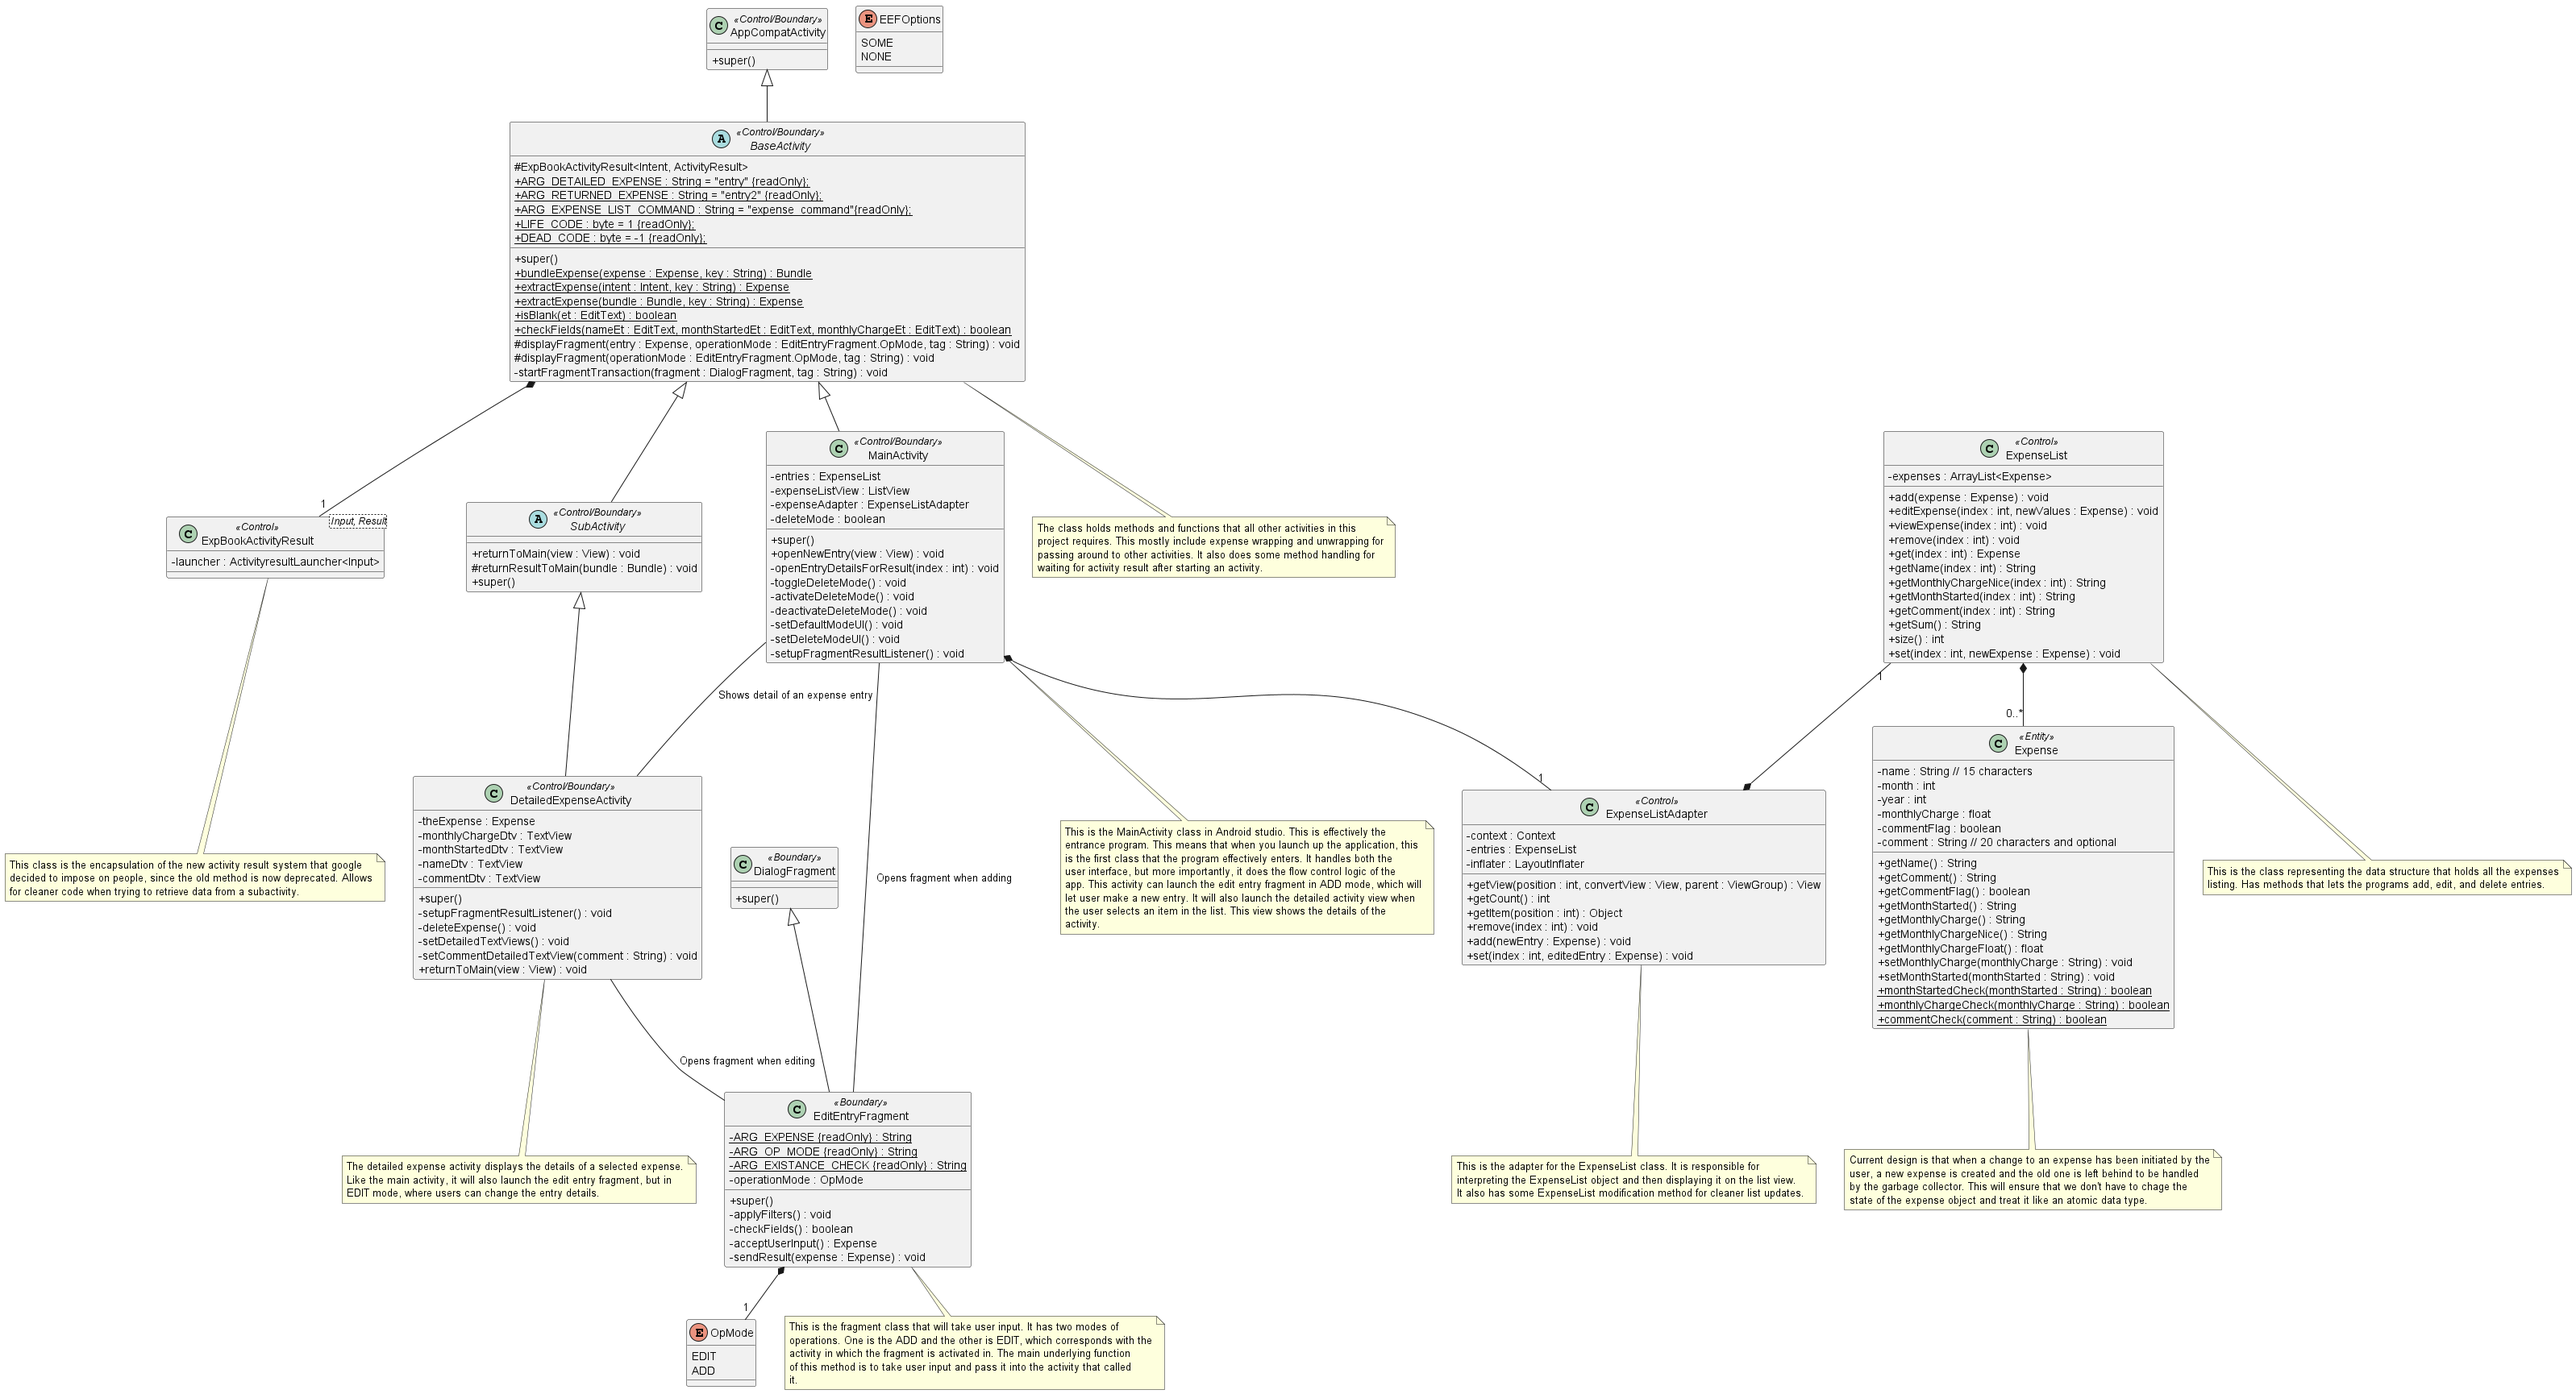
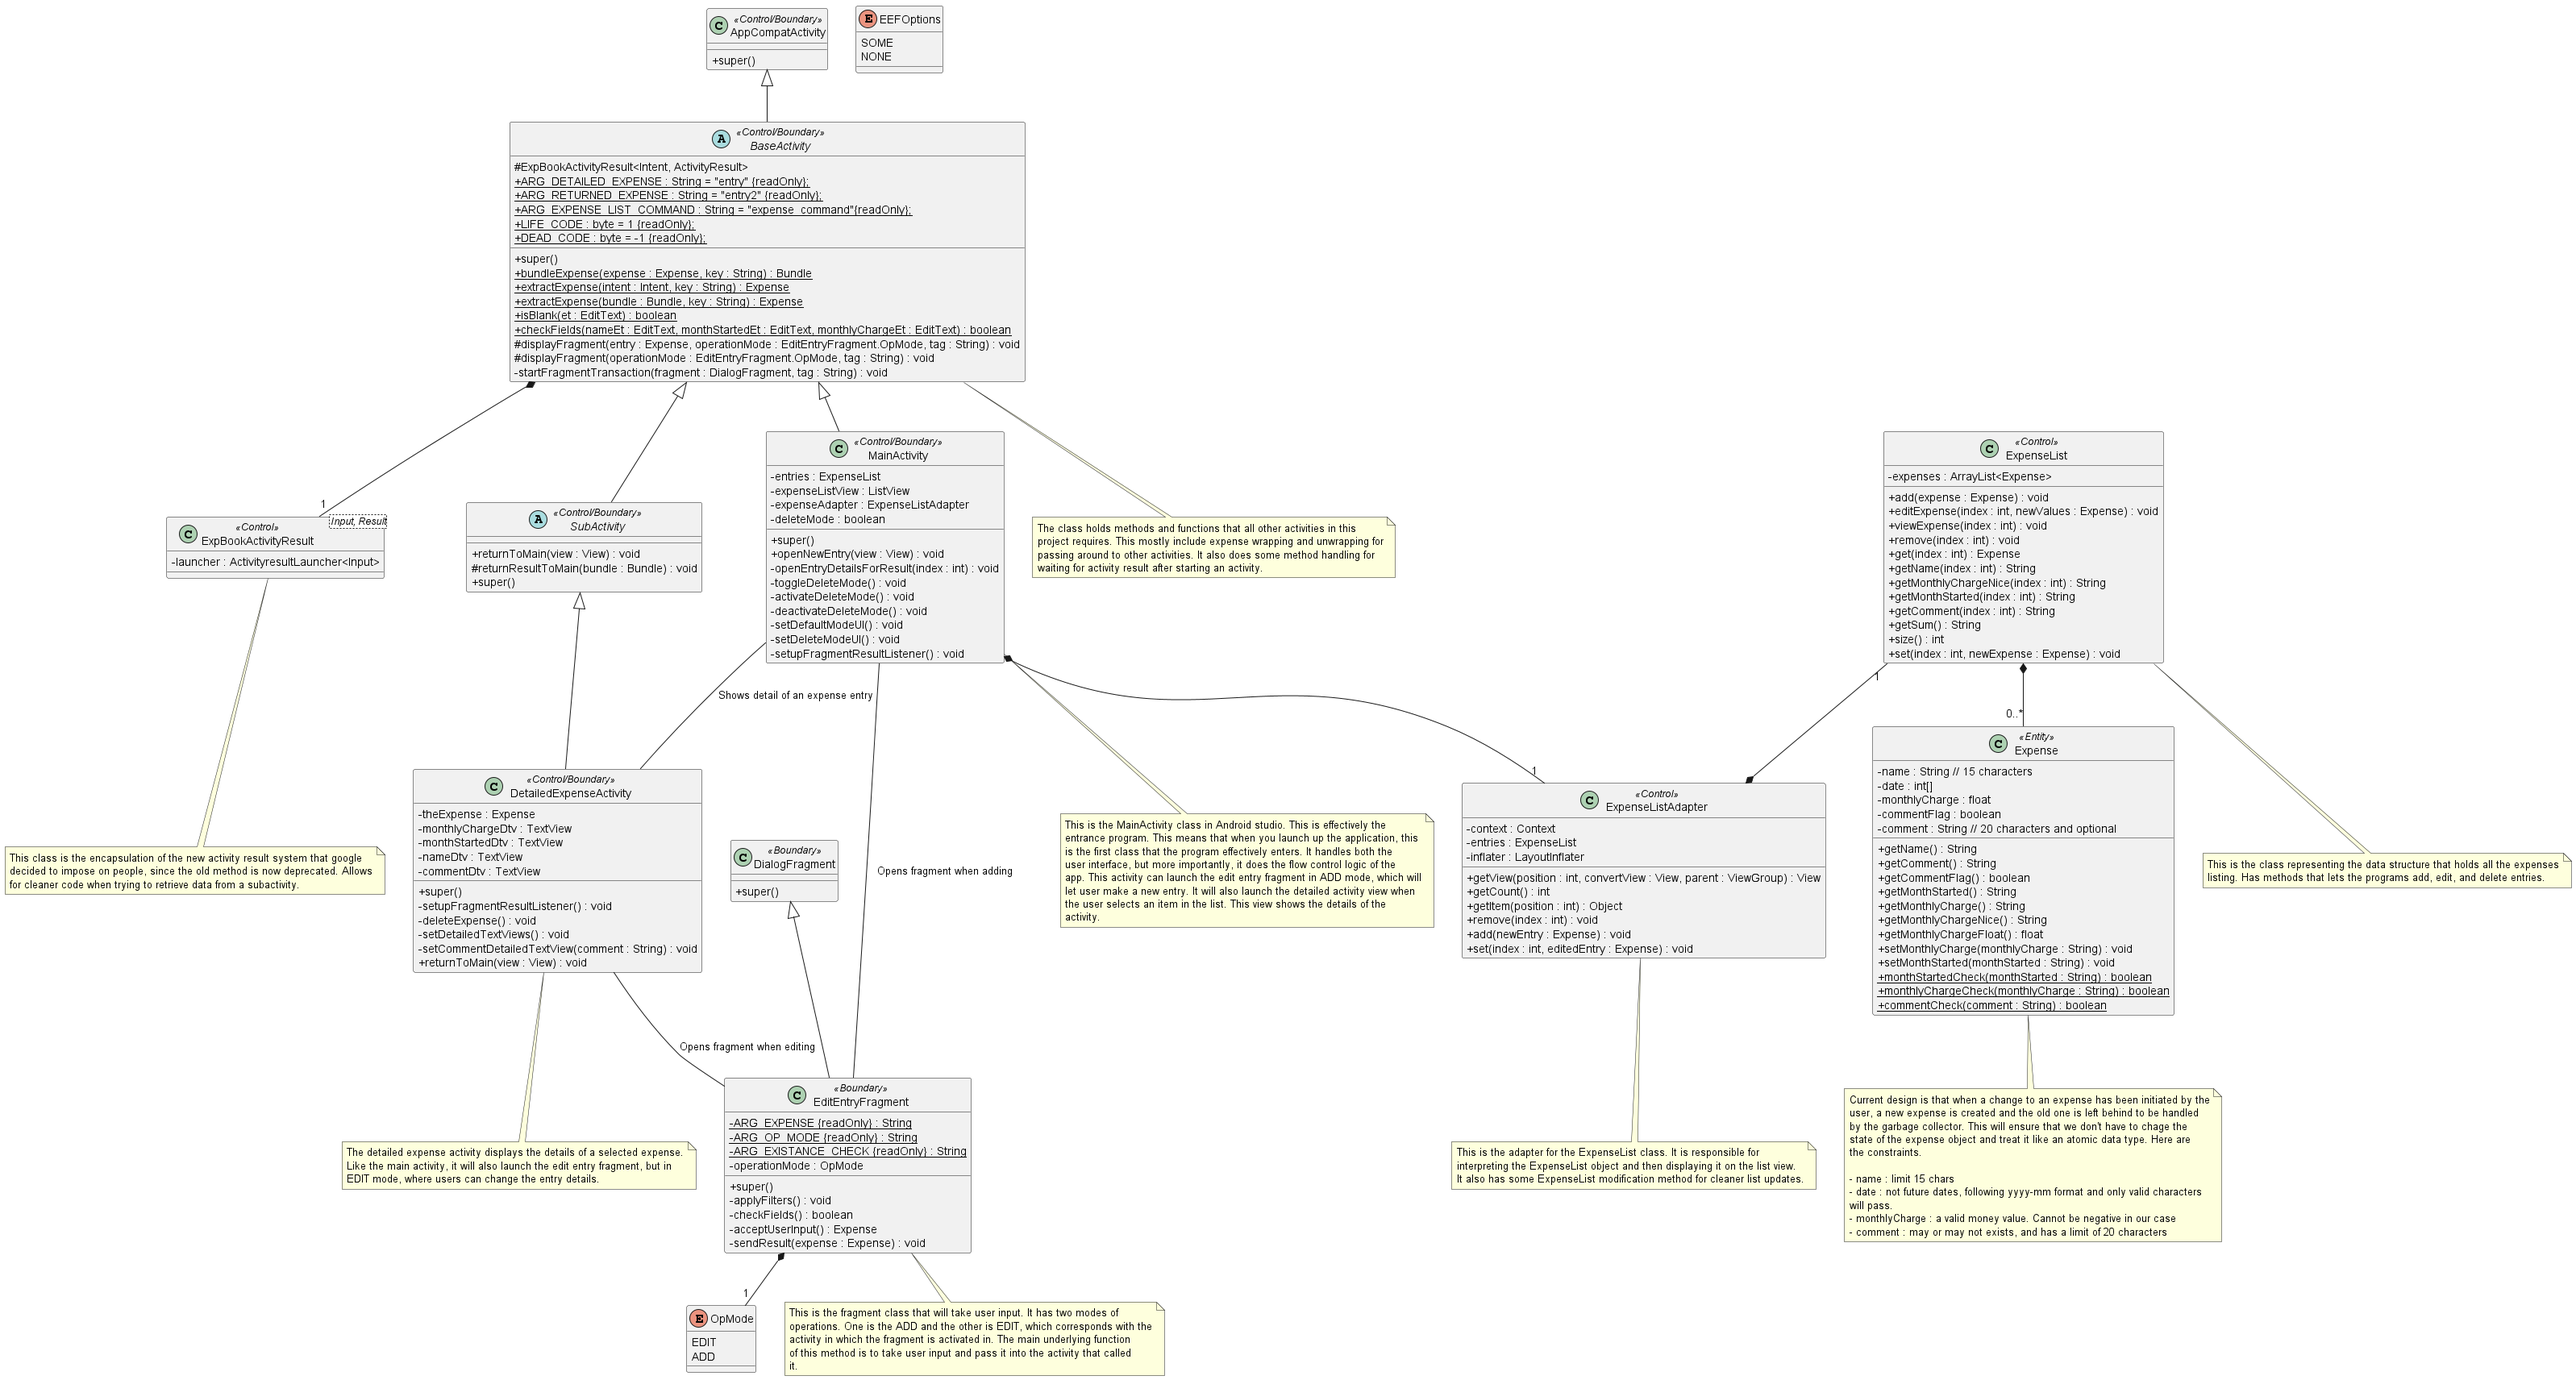
done for real

diff --git a/waridh-ExpBook/app/src/main/java/com/example/waridh_expbook/Expense.java b/waridh-ExpBook/app/src/main/java/com/example/waridh_expbook/Expense.java
@@ -1,10 +1,12 @@
 package com.example.waridh_expbook;
 
 import java.io.Serializable;
+import java.text.SimpleDateFormat;
+import java.util.Date;
 
 public class Expense implements Serializable {
     private String name;
-    private int month, year;
+    private int[] date;
     private float monthlyCharge;
 
     /* Comment check. Relying on the Null value might result in bugs later, so I
@@ -23,6 +25,7 @@ public class Expense implements Serializable {
     public Expense(String name, String monthStarted, String charge) {
         this.commentFlag = false;
         this.name = name;
+        this.date = new int[2];
         setMonthStarted(monthStarted);
         setMonthlyCharge(charge);
     }
@@ -32,6 +35,7 @@ public class Expense implements Serializable {
      */
     public Expense(String name, String monthStarted, String charge, String comment) {
         this.name = name;
+        this.date = new int[2];
         setMonthStarted(monthStarted);
         setMonthlyCharge(charge);
         this.commentFlag = true;
@@ -64,7 +68,7 @@ public class Expense implements Serializable {
      * immutability.
      * @return the string representing the month started.
      */
-    public String getMonthStarted() { return String.format("%04d-%02d", year, month); }
+    public String getMonthStarted() { return String.format("%04d-%02d", date[0], date[1]); }
 
     /**
      * Returns the monthly charge
@@ -129,9 +133,7 @@ public class Expense implements Serializable {
      * @param s The "yyyy-mm" format month started input.
      */
     private void setMonthStarted(String s) {
-        String[] intermediate = s.split("-");
-        year = Integer.parseInt(intermediate[0]);
-        month = Integer.parseInt(intermediate[1]);
+        this.date = tokenizeDate(s);
     }
 
     /**
@@ -152,13 +154,41 @@ public class Expense implements Serializable {
     public static boolean monthStartedCheck(String date) {
         if (date.matches("^[0-9]{4}-[0-9]{1,2}$")) {
             int year, month;
-            String[] tokenized = date.split("-");
-            year = Integer.parseInt(tokenized[0]);
-            month = Integer.parseInt(tokenized[1]);
+            int[] inputArray, currentArray;
+
+            /* Converting the input string to integer so that it can be compared */
+            inputArray = tokenizeDate(date);
+            year = inputArray[0];
+            month = inputArray[1];
+
+            /* Getting the current date */
+            Date cDate = new Date();
+            String sDate = new SimpleDateFormat("yyyy-MM").format(cDate);
+            currentArray = tokenizeDate(sDate);
+
             /* This blocks out invalid months and years. */
-            return (0 < month && month < 13) && (0 < year);
+            if (year < currentArray[0])
+                return (0 < month && month < 13) && (0 < year);
+            else if (year == currentArray[0])   // The case where you need to check the month
+                return (0 < month && month <= currentArray[1]);
+            else return false;  // This is the case when the the year is over the current year
         }
         else return false;
+    }
+
+    /**
+     * This method converts a date input into two integers stored in an array
+     * @param date String in the constrained format
+     * @return an integer array that holds the year and month in interger
+     */
+    static int[] tokenizeDate(String date) {
+        String[] tokenized = date.split("-");
+        int[] retArray = {0, 0};
+
+        retArray[0] = Integer.parseInt(tokenized[0]);   // Could use a loop, but only two elements
+        retArray[1] = Integer.parseInt(tokenized[1]);
+
+        return retArray;
     }
 
     /**
